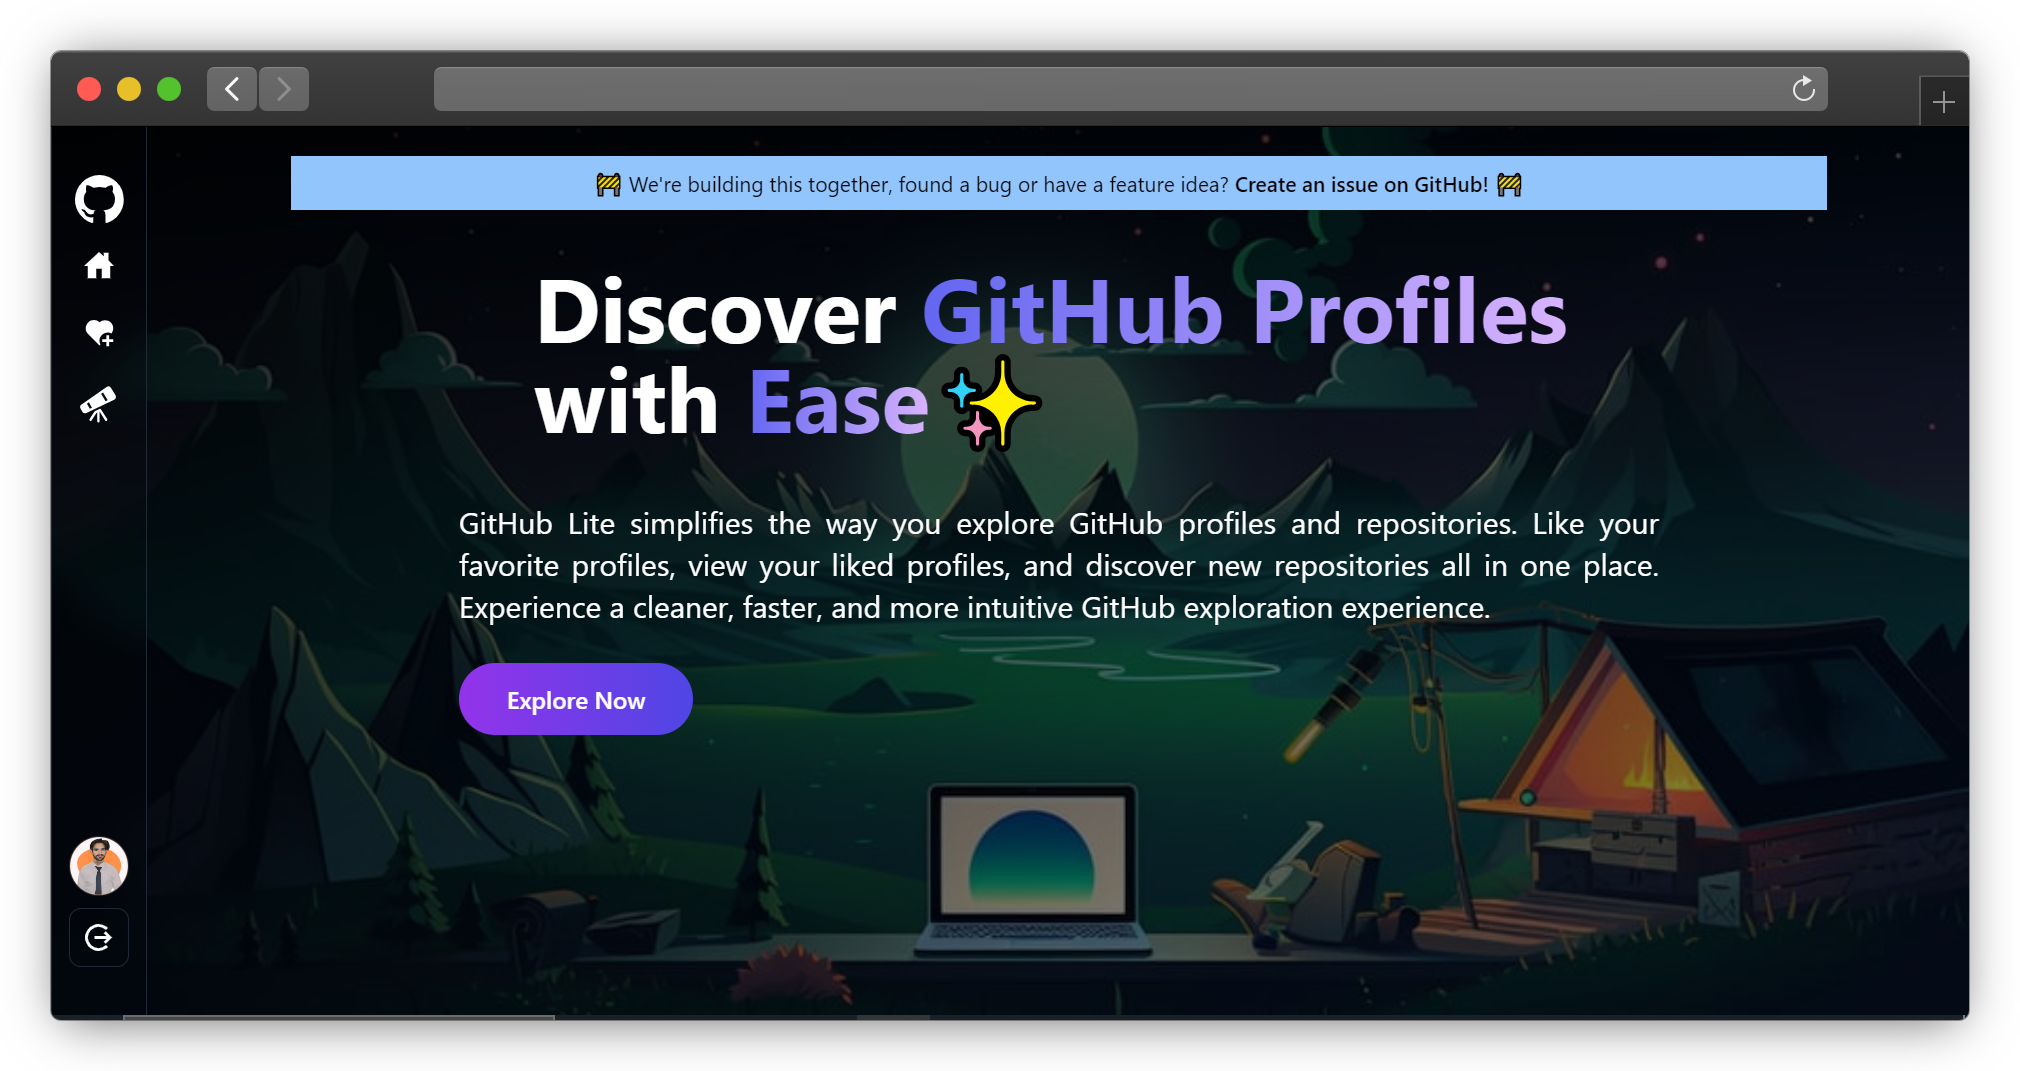
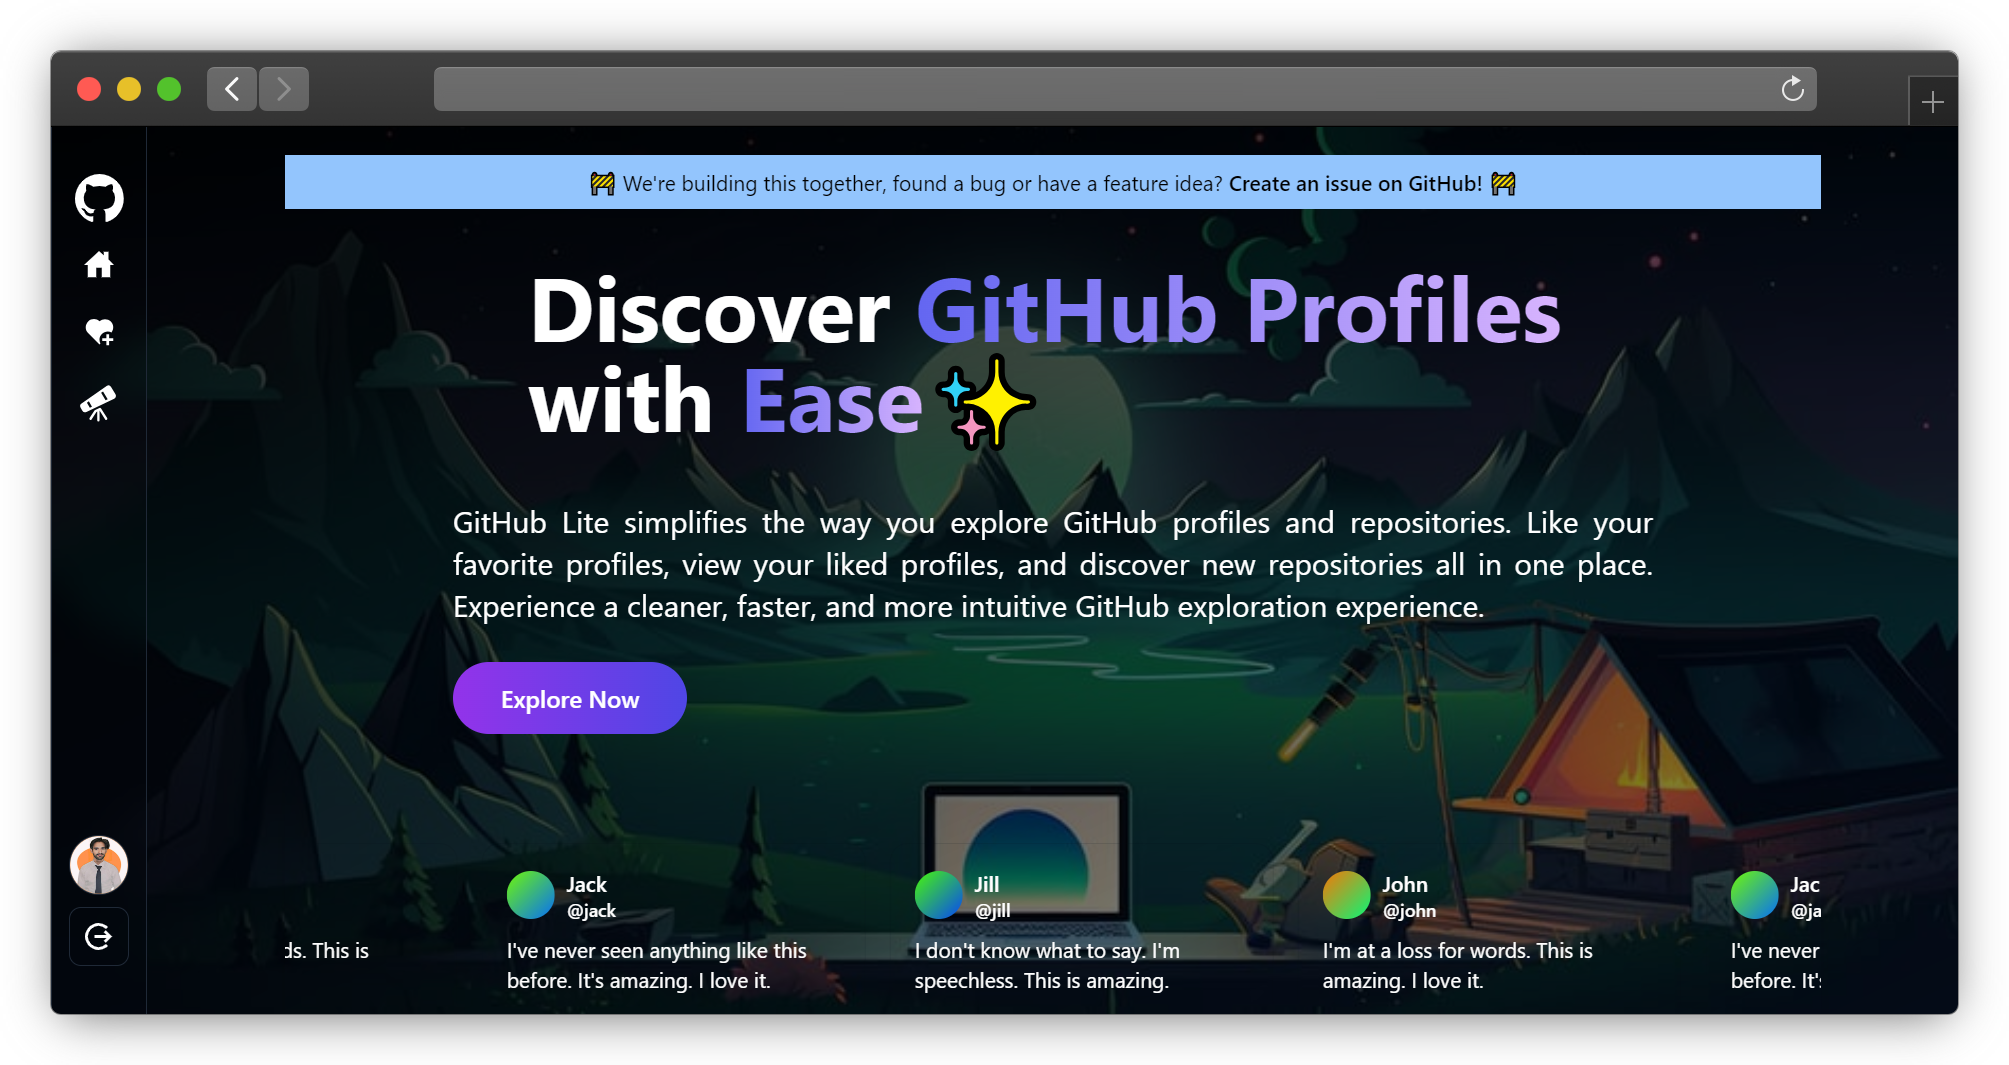
added TrustedBy section

diff --git a/client/src/components/TrustedBy.jsx b/client/src/components/TrustedBy.jsx
@@ -1,0 +1,85 @@
+import { cn } from '@/lib/utils';
+import Marquee from './magicui/marquee';
+
+const reviews = [
+  {
+    name: 'Jack',
+    username: '@jack',
+    body: "I've never seen anything like this before. It's amazing. I love it.",
+    img: 'https://avatar.vercel.sh/jack',
+  },
+  {
+    name: 'Jill',
+    username: '@jill',
+    body: "I don't know what to say. I'm speechless. This is amazing.",
+    img: 'https://avatar.vercel.sh/jill',
+  },
+  {
+    name: 'John',
+    username: '@john',
+    body: "I'm at a loss for words. This is amazing. I love it.",
+    img: 'https://avatar.vercel.sh/john',
+  },
+  {
+    name: 'Jane',
+    username: '@jane',
+    body: "I'm at a loss for words. This is amazing. I love it.",
+    img: 'https://avatar.vercel.sh/jane',
+  },
+  {
+    name: 'Jenny',
+    username: '@jenny',
+    body: "I'm at a loss for words. This is amazing. I love it.",
+    img: 'https://avatar.vercel.sh/jenny',
+  },
+  {
+    name: 'James',
+    username: '@james',
+    body: "I'm at a loss for words. This is amazing. I love it.",
+    img: 'https://avatar.vercel.sh/james',
+  },
+];
+
+const firstRow = reviews.slice(0, reviews.length / 2);
+const secondRow = reviews.slice(reviews.length / 2);
+
+const ReviewCard = ({ img, name, username, body }) => {
+  return (
+    <figure
+      className={cn(
+        'relative w-64 cursor-pointer overflow-hidden rounded-xl border p-4',
+        // light styles
+        'border-gray-950/[.1] bg-gray-950/[.01] hover:bg-gray-950/[.05]',
+        // dark styles
+        'dark:border-gray-50/[.1] dark:bg-gray-50/[.10] dark:hover:bg-gray-50/[.15]'
+      )}
+    >
+      <div className="flex flex-row items-center gap-2">
+        <img className="rounded-full" width="32" height="32" alt="" src={img} />
+        <div className="flex flex-col">
+          <figcaption className="text-sm font-medium dark:text-white">
+            {name}
+          </figcaption>
+          <p className="text-xs font-medium dark:text-white/40">{username}</p>
+        </div>
+      </div>
+      <blockquote className="mt-2 text-sm">{body}</blockquote>
+    </figure>
+  );
+};
+const TrustedBy = () => {
+  return (
+    <>
+      <div className="relative flex h-[250px] w-full flex-col items-center justify-center overflow-hidden rounded-lg  bg-background md:shadow-xl">
+        <Marquee pauseOnHover className="[--duration:20s]">
+          {firstRow.map((review) => (
+            <ReviewCard key={review.username} {...review} />
+          ))}
+        </Marquee>
+        <div className="absolute inset-y-0 left-0 w-1/3 pointer-events-none "></div>
+        <div className="absolute inset-y-0 right-0 w-1/3 pointer-events-none "></div>
+      </div>
+    </>
+  );
+};
+export default TrustedBy;

diff --git a/client/tailwind.config.js b/client/tailwind.config.js
@@ -13,6 +13,10 @@ module.exports = {
       animation: {
         'spin-around': 'spin-around calc(var(--speed) * 2) infinite linear',
         slide: 'slide var(--speed) ease-in-out infinite alternate',
+        'accordion-down': 'accordion-down 0.2s ease-out',
+        'accordion-up': 'accordion-up 0.2s ease-out',
+        marquee: 'marquee var(--duration) linear infinite',
+        'marquee-vertical': 'marquee-vertical var(--duration) linear infinite',
       },
       keyframes: {
         'spin-around': {
@@ -34,17 +38,6 @@ module.exports = {
             transform: 'translate(calc(100cqw - 100%), 0)',
           },
         },
-      },
-    },
-    container: {
-      center: true,
-      padding: '2rem',
-      screens: {
-        '2xl': '1400px',
-      },
-    },
-    extend: {
-      keyframes: {
         'accordion-down': {
           from: { height: '0' },
           to: { height: 'var(--radix-accordion-content-height)' },
@@ -53,10 +46,21 @@ module.exports = {
           from: { height: 'var(--radix-accordion-content-height)' },
           to: { height: '0' },
         },
+        marquee: {
+          from: { transform: 'translateX(0)' },
+          to: { transform: 'translateX(calc(-100% - var(--gap)))' },
+        },
+        'marquee-vertical': {
+          from: { transform: 'translateY(0)' },
+          to: { transform: 'translateY(calc(-100% - var(--gap)))' },
+        },
       },
-      animation: {
-        'accordion-down': 'accordion-down 0.2s ease-out',
-        'accordion-up': 'accordion-up 0.2s ease-out',
+    },
+    container: {
+      center: true,
+      padding: '2rem',
+      screens: {
+        '2xl': '1400px',
       },
     },
   },

diff --git a/client/src/components/magicui/marquee.jsx b/client/src/components/magicui/marquee.jsx
@@ -1,0 +1,39 @@
+import { cn } from "@/lib/utils";
+
+export default function Marquee({
+  className,
+  reverse,
+  pauseOnHover = false,
+  children,
+  vertical = false,
+  repeat = 4,
+  ...props
+}) {
+  return (
+    (<div
+      {...props}
+      className={cn(
+        "group flex overflow-hidden p-2 [--duration:40s] [--gap:1rem] [gap:var(--gap)]",
+        {
+          "flex-row": !vertical,
+          "flex-col": vertical,
+        },
+        className
+      )}>
+      {Array(repeat)
+        .fill(0)
+        .map((_, i) => (
+          <div
+            key={i}
+            className={cn("flex shrink-0 justify-around [gap:var(--gap)]", {
+              "animate-marquee flex-row": !vertical,
+              "animate-marquee-vertical flex-col": vertical,
+              "group-hover:[animation-play-state:paused]": pauseOnHover,
+              "[animation-direction:reverse]": reverse,
+            })}>
+            {children}
+          </div>
+        ))}
+    </div>)
+  );
+}

diff --git a/client/src/pages/LandingPage.jsx b/client/src/pages/LandingPage.jsx
@@ -1,4 +1,5 @@
 import Hero from '@/components/Hero';
+import TrustedBy from '@/components/TrustedBy';
 import WorkInProgressBanner from '@/components/WorkInProgressBanner';
 
 const LandingPage = () => {
@@ -6,6 +7,7 @@ const LandingPage = () => {
     <div>
       <WorkInProgressBanner />
       <Hero />
+      <TrustedBy />
     </div>
   );
 };
